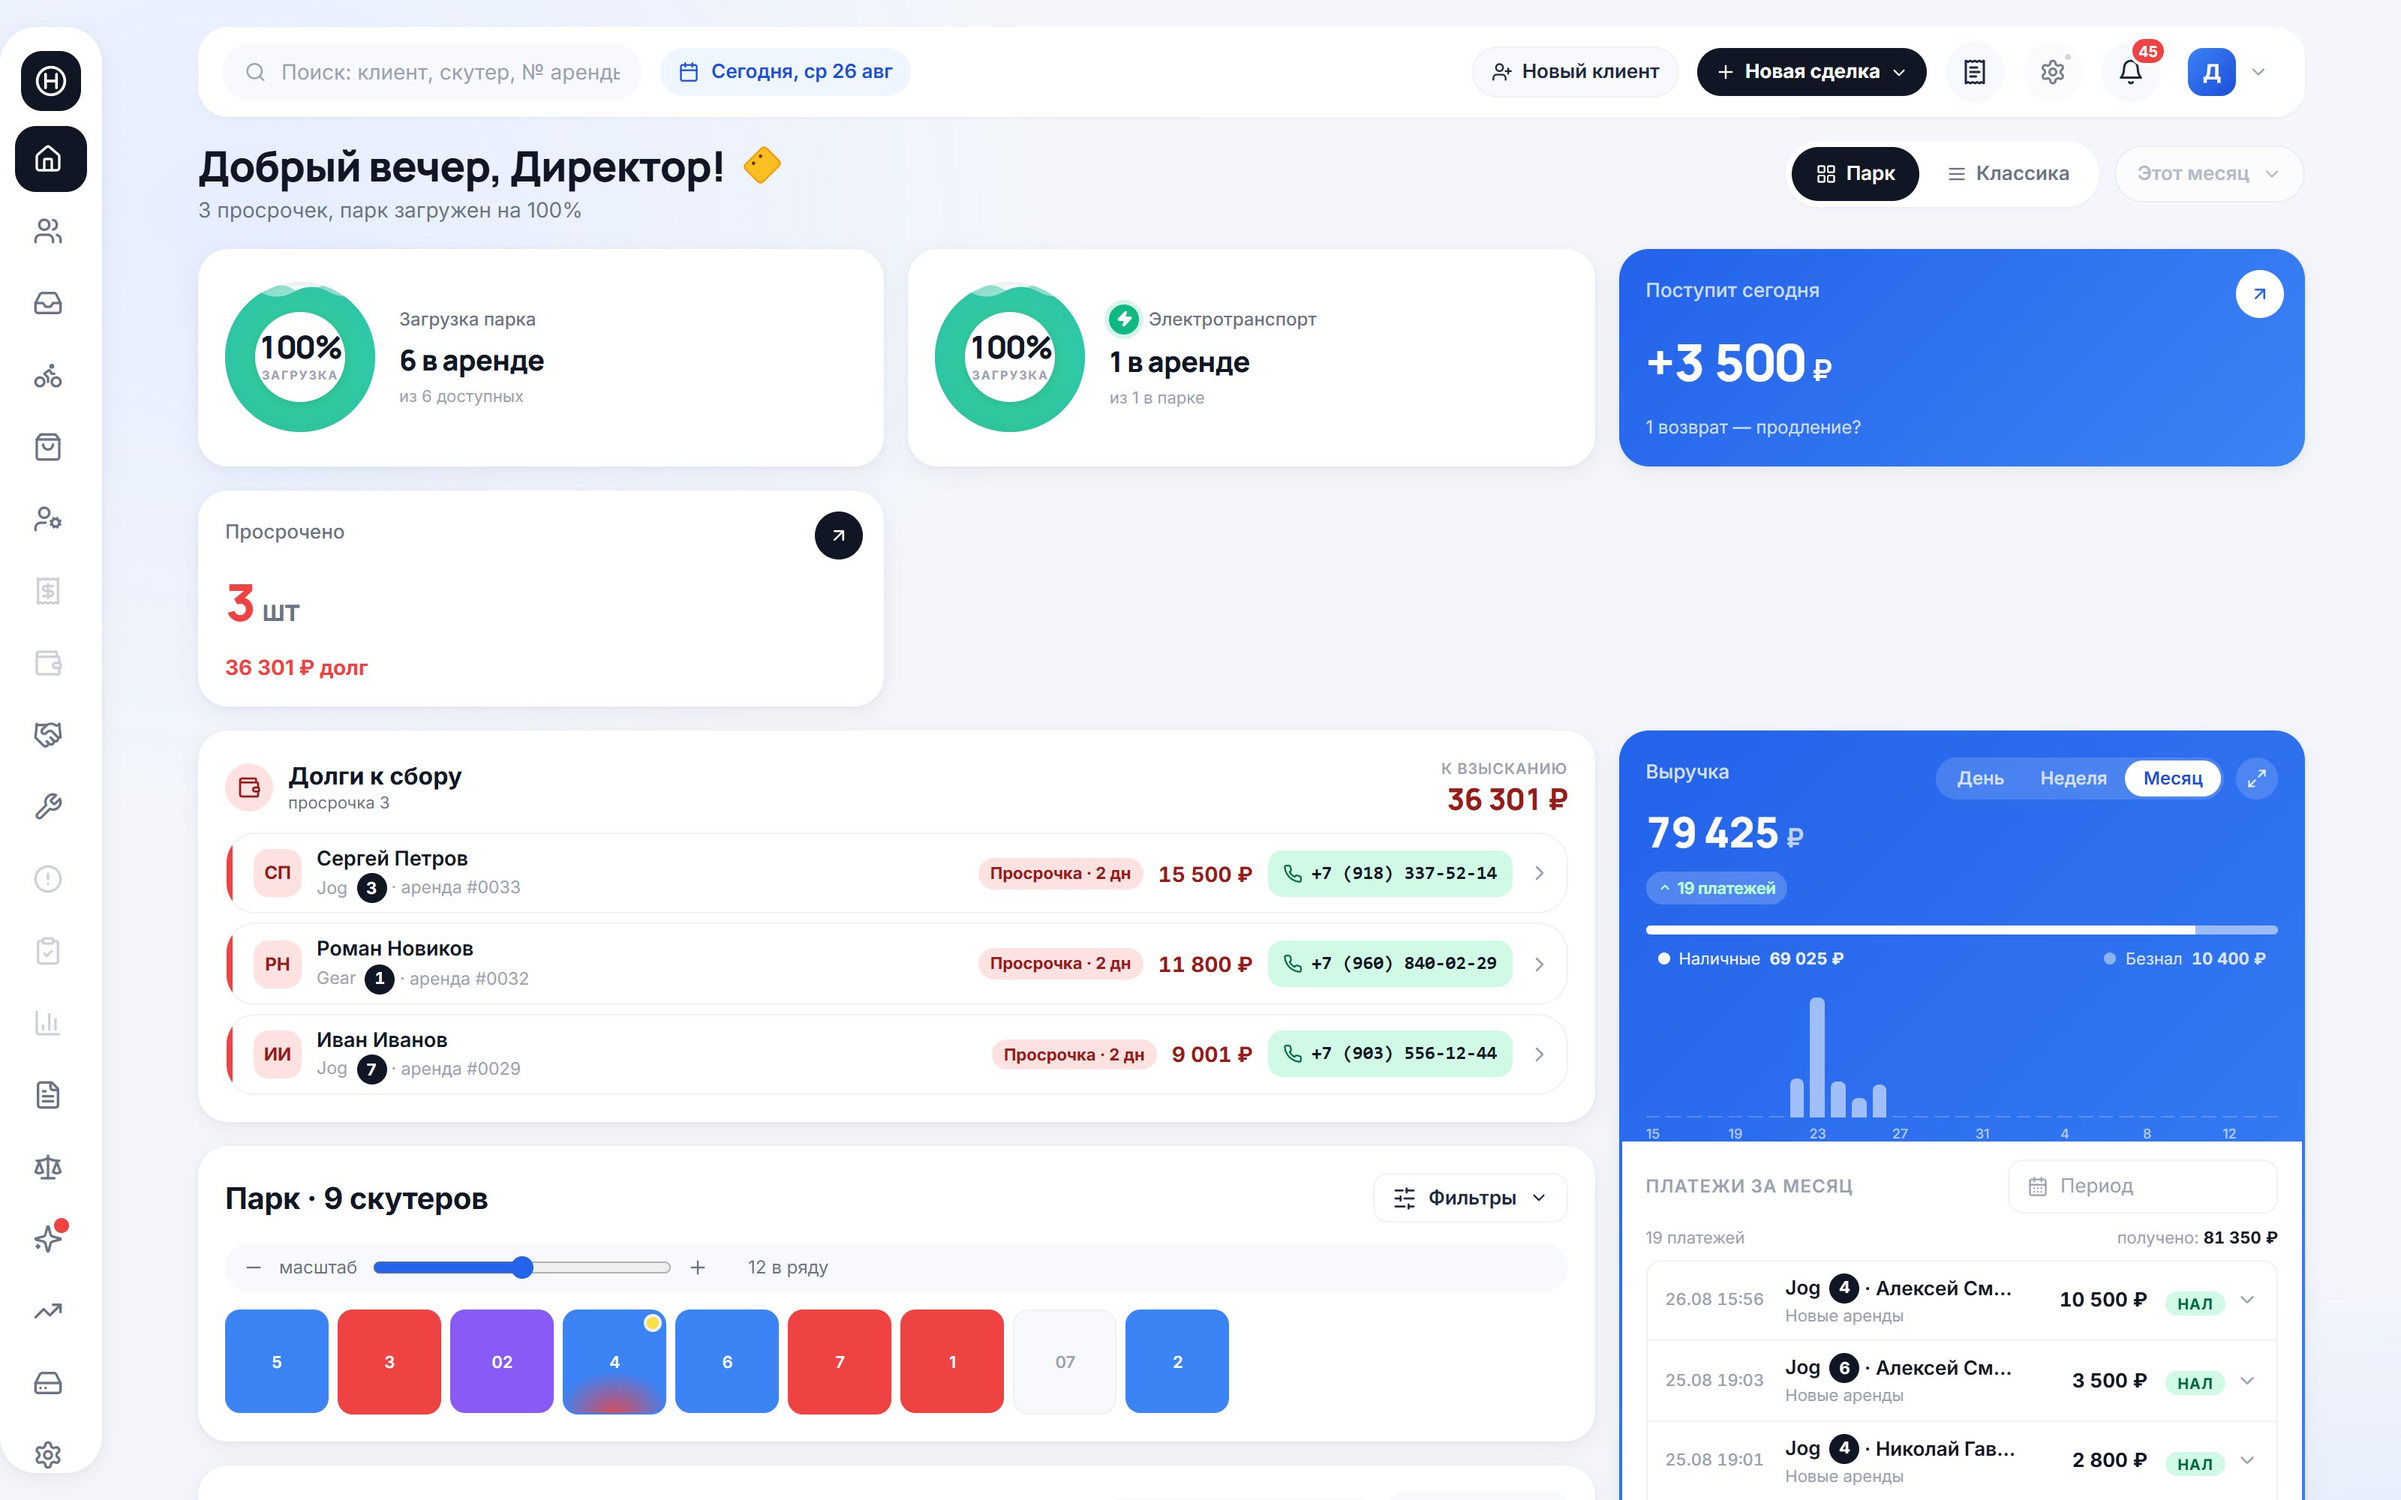
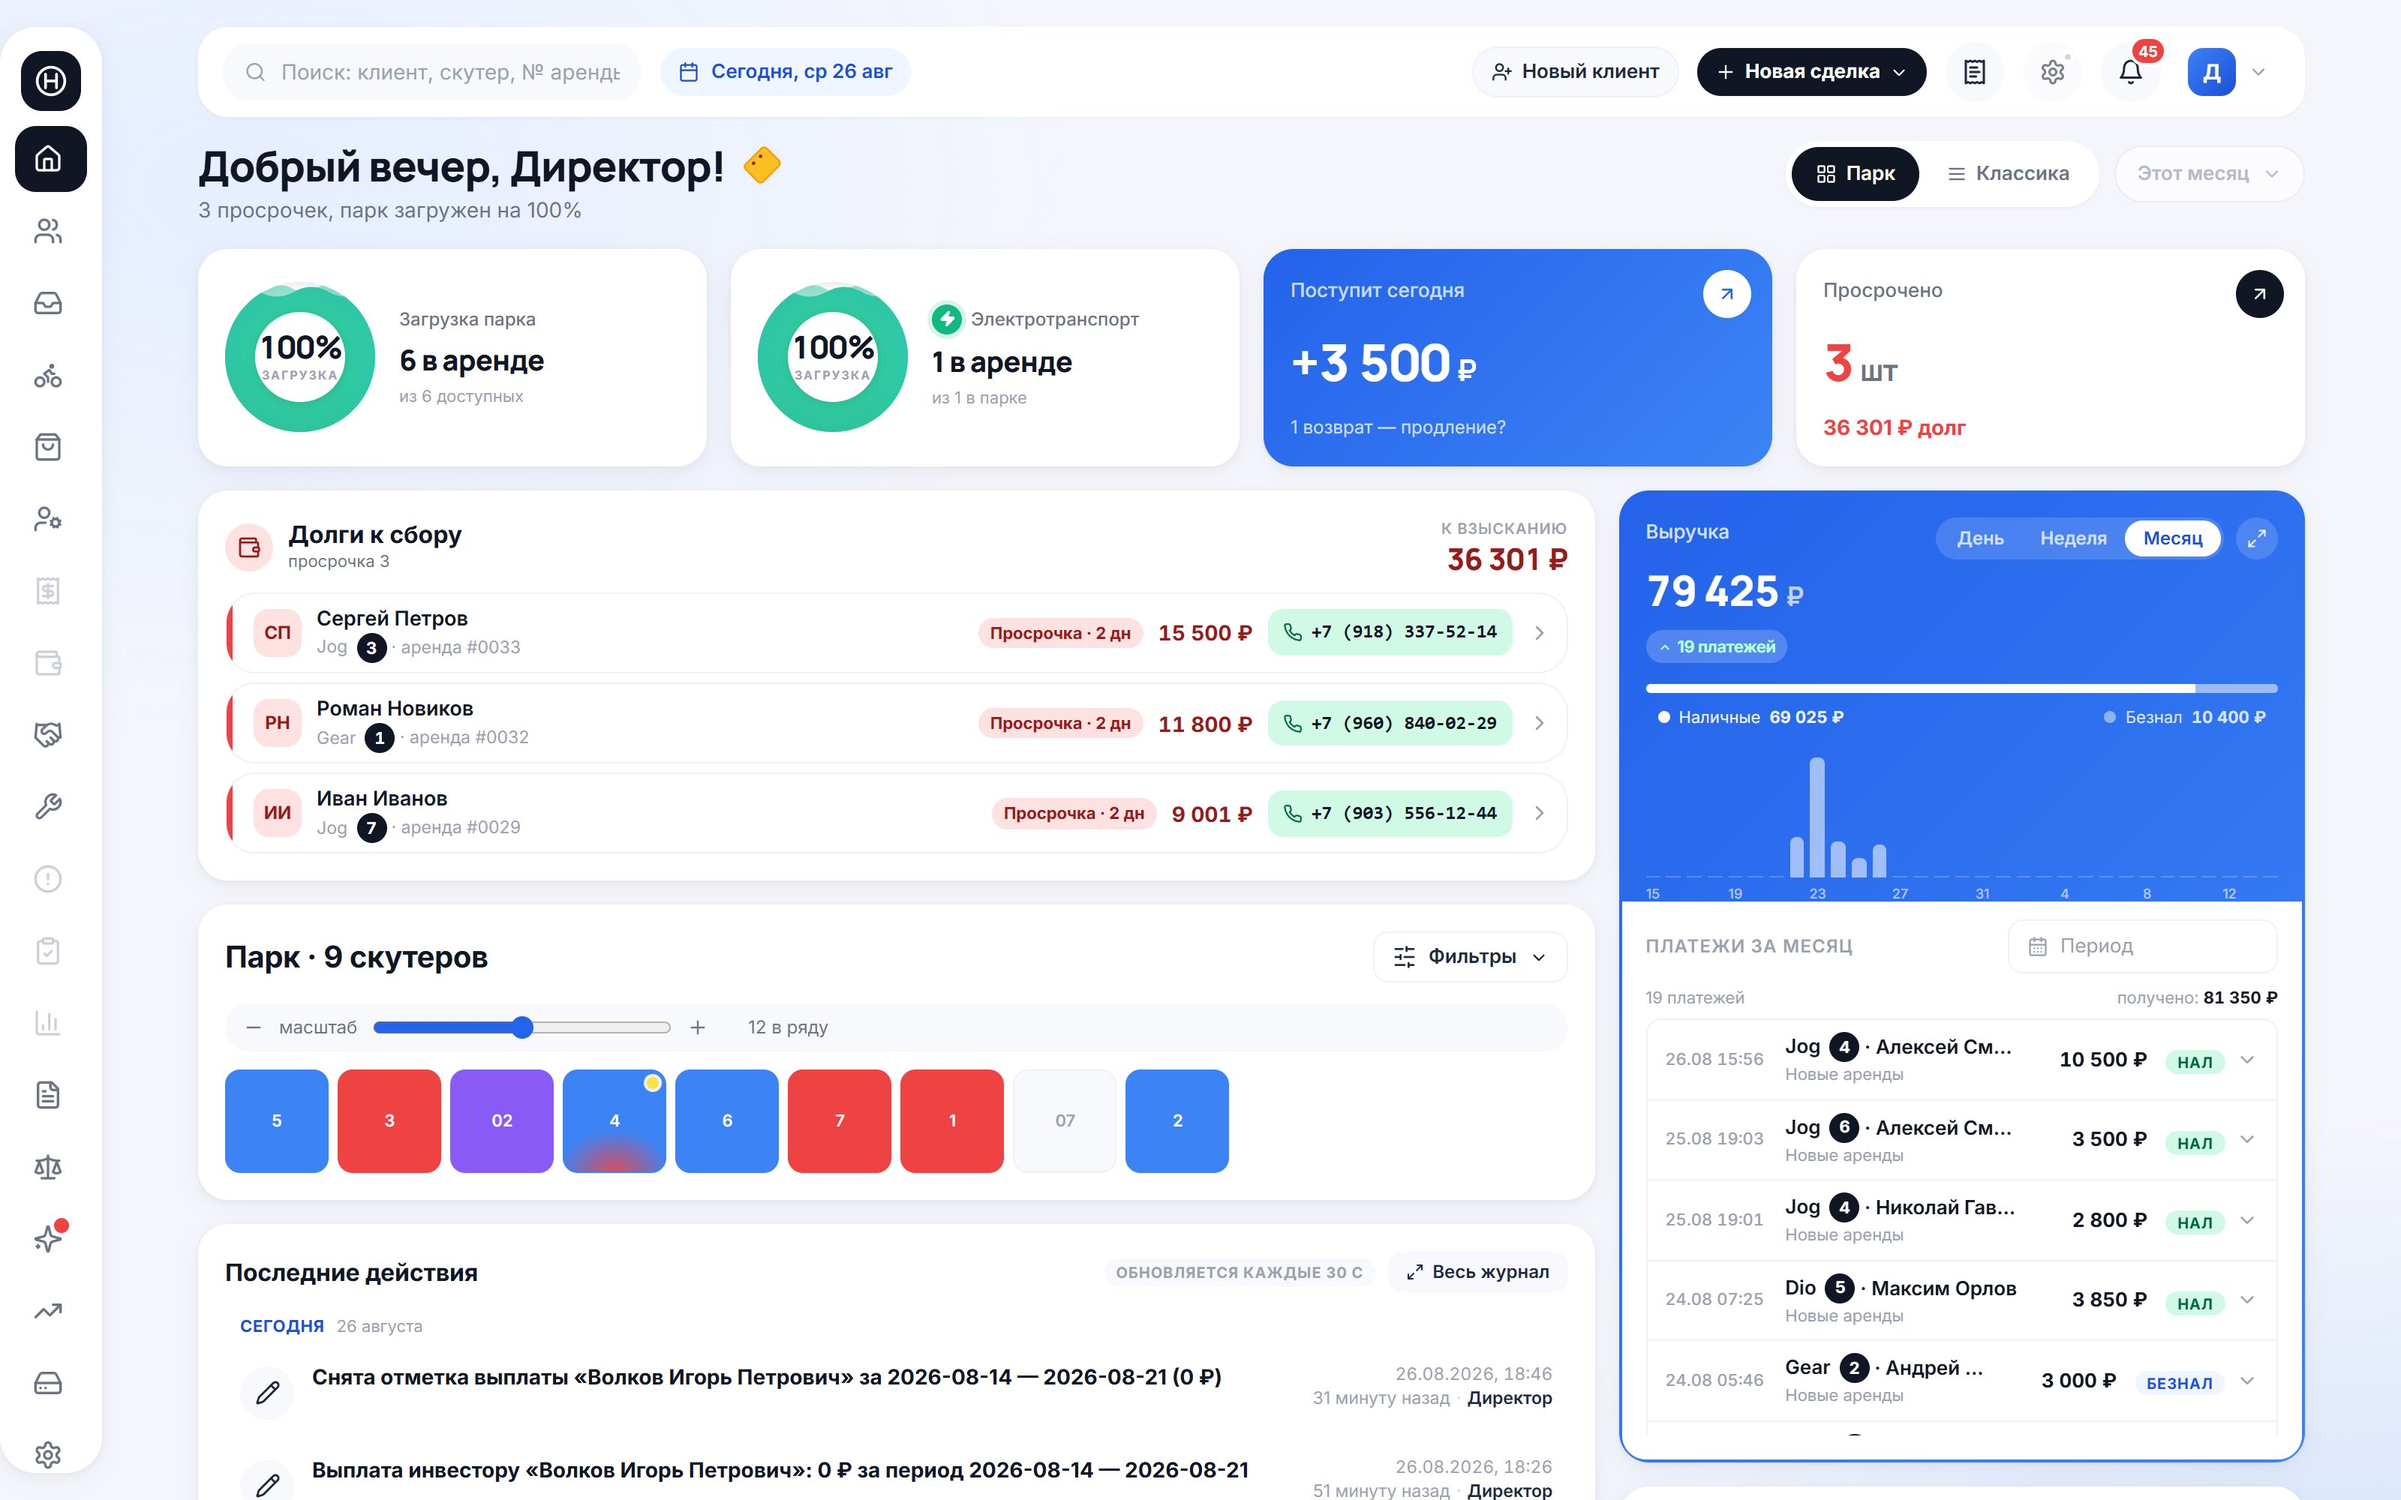
docs(правки-2.0): история 2.4 — два чипса загрузки с кадрами

diff --git a/apps/web/src/data/progress.ts b/apps/web/src/data/progress.ts
@@ -1020,7 +1020,26 @@ export const progressItems: ProgressItem[] = [
     title: "Два чипса загрузки: бензиновый парк и электро отдельно",
     quote:
       "«Загрузка парка» отображается как раньше только с бензиновой техникой… Вместо этого добавить такой же чипс загрузки, только для электричек: сколько всего, сколько в аренде и процент. По итогу два чипса: один для наших скутеров, второй для партнёрской техники (все электро всегда партнёрские).",
-    status: "planned",
+    status: "done",
+    note:
+      "«Загрузка парка» считает только нашу бензиновую технику. Рядом такой же чипс для электротранспорта — свой процент и свои цифры; электрички больше не влияют на загрузку нашего парка.",
+    story: [
+      {
+        tag: "fix",
+        text:
+          "На дашборде теперь два кольца. Первое — «Загрузка парка»: только наши бензиновые скутеры, электрички из знаменателя и из общего количества убраны. Второе — «Электротранспорт» с молнией: сколько единиц в аренде из скольких в парке и свой процент загрузки. Это тот же самый компонент, что и первый чипс, просто с другим заголовком и данными — поведение и вид одинаковые.",
+        imgs: [
+          { src: "/progress/v2-4-gauges.jpg", label: "Два кольца: наш парк и электротранспорт" },
+        ],
+      },
+      {
+        text:
+          "Второй чипс появляется, только если электротранспорт в системе есть — пока его нет, дашборд выглядит как раньше. Клик по нему ведёт в «Партнёрку»: вся электрическая техника партнёрская, поэтому и разбираться с ней логично там. На телефоне то же самое: наш парк в паре с «Поступит сегодня», электро — отдельной карточкой под ними.",
+        imgs: [
+          { src: "/progress/v2-4-gauges-mobile.jpg", label: "Мобильный дашборд: оба чипса" },
+        ],
+      },
+    ],
   },
   {
     id: "2.5",

diff --git a/ROADMAP.md b/ROADMAP.md
@@ -350,7 +350,7 @@
 - [x] 2.1 «Поступит сегодня» = предполагаемые продления
 - [x] 2.2 Ключ директора на смену рамы/двигателя
 - [x] 2.3 Пробег при возврате обязателен
-- [ ] 2.4 Два чипса загрузки: бензин + электро (партнёрская)
+- [x] 2.4 Два чипса загрузки: бензин + электро (партнёрская)
 - [x] 2.5 Партнёрка — самостоятельное пространство (список техники, добавление, должники → дашборд с отметкой)
 - [x] 2.6 Выплаты: периодичность/день, график с галочками, напоминания, статистика
 - [x] 2.7 Инвестор (ФИО), техника через него, метрики инвестора
